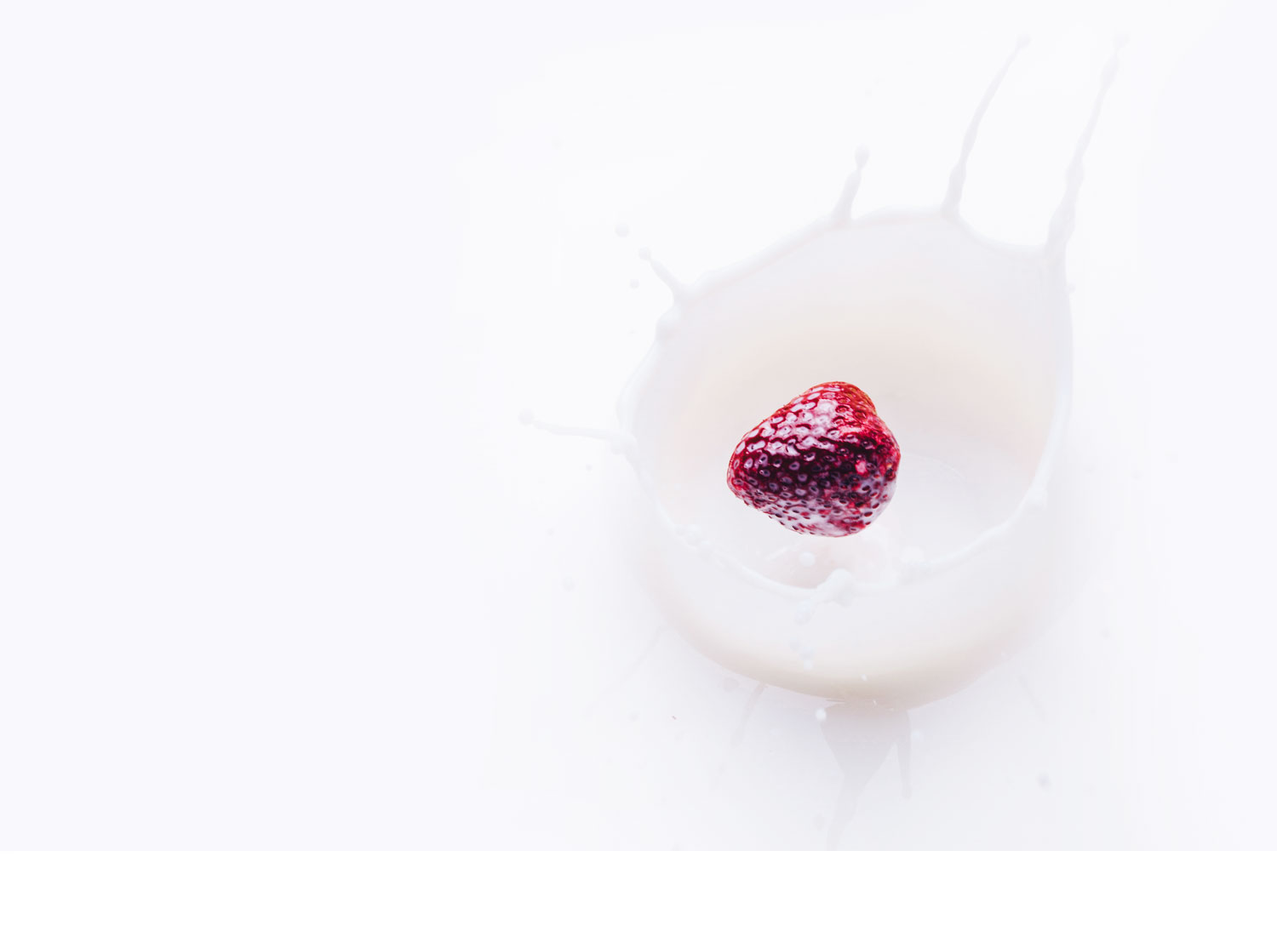
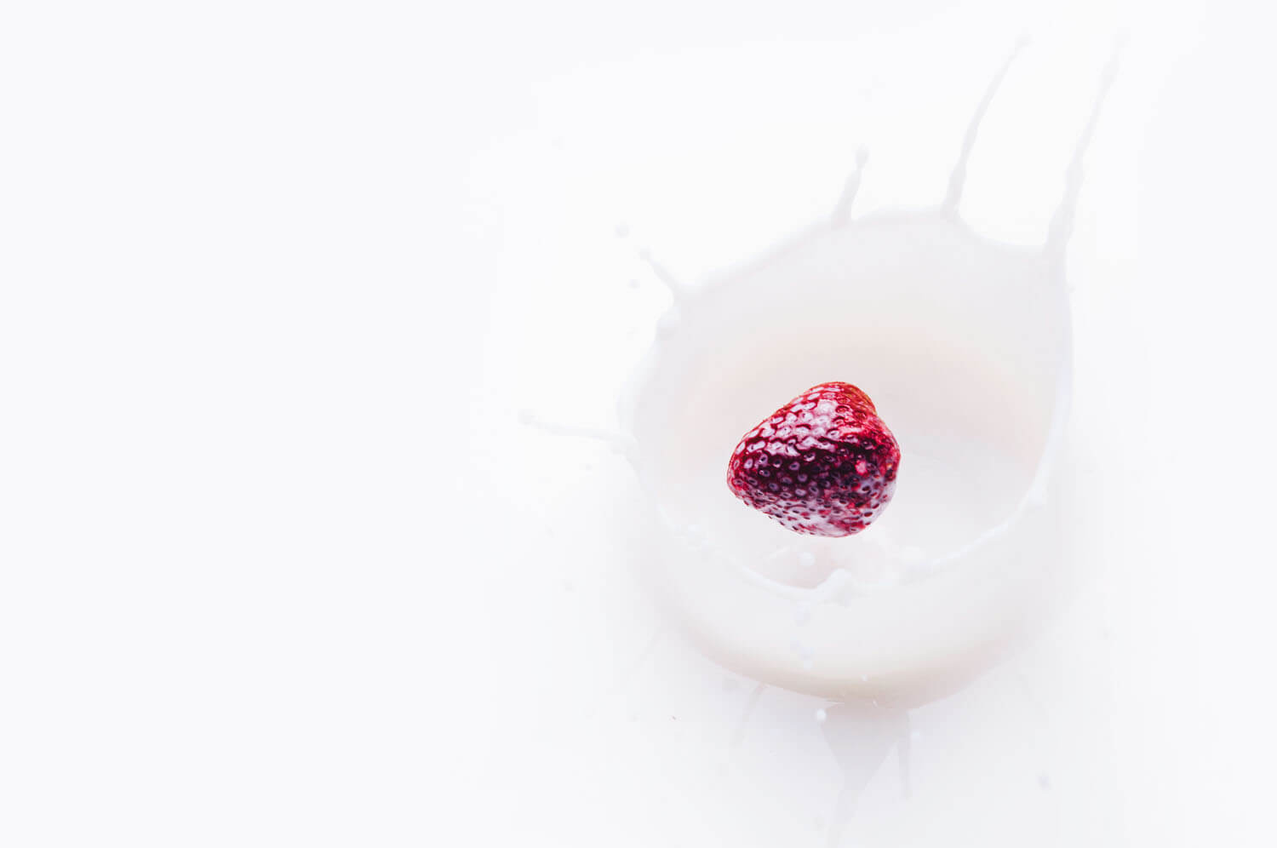
changed

Changed region(s): [[0.552, 0.4046, 0.7053, 0.6536], [0.5827, 0.7159, 0.7667, 0.8715], [0.644, 0.9026, 0.6747, 0.9337]]

diff --git a/hw_bem/app/css/style.css b/hw_bem/app/css/style.css
@@ -28,7 +28,9 @@ body {
 
 .first-screen {
 	width: 100%;
-	background: #fafafb url("../img/1.jpg") top center no-repeat;
+	max-width: 1200px;
+	margin: 0 auto;
+	background: url("../img/1.jpg") top center no-repeat;
 }
 .first-screen__header {
 	display: -webkit-box;
@@ -43,8 +45,8 @@ body {
 	margin-bottom: 255px;
 }
 .first-screen .main {
-	background: url("../img/scrol.jpg") no-repeat 50% 85%;
-	padding-bottom: 400px;
+	background: url("../img/scrol.jpg") no-repeat 43% 85%;
+	padding-bottom: 330px;
 }
 .first-screen__menu {
 	display: -webkit-box;
@@ -63,16 +65,17 @@ body {
 }
 .first-screen__link {
 	display: inline-block;
-	color: #76431f;
+	color: #262626;
 	line-height: 1;
 	text-decoration: none;
 	cursor: pointer;
+	font-weight: 900;
 }
 .first-screen__link:after {
 	background-color: #ff6033;
 	display: block;
 	content: "";
-	height: 3px;
+	height: 4px;
 	width: 0;
 	-webkit-transition: width .3s ease-in-out;
 	-moz--transition: width .3s ease-in-out;
@@ -118,5 +121,38 @@ body {
 .about {
 	background-color: #00bcbc;
 }
+.about__content {
+	width: 100%;
+	max-width: 1200px;
+	display: -webkit-box;
+	display: -webkit-flex;
+	display: -ms-flexbox;
+	display:         flex;
+	-webkit-box-align: center;
+	-webkit-align-items: center;
+	-ms-flex-align: center;
+	        align-items: center;
+	padding-left: 100px;
+}
 
[1 lines of base64/hex data omitted]
+.about__content-left {
+	display: -webkit-box;
+	display: -webkit-flex;
+	display: -ms-flexbox;
+	display:         flex;
+}
+
+.about__content-right {
+	color: #fff;
+}
+.about__content-right__title {
+	font-size: 90px;
+	font-weight: 900;
+}
+.about__content-right__subtitle {
+	font-weight: 300;
+	font-size: 17px;
+	line-height: 27px;
+}
+
[1 lines of base64/hex data omitted]

diff --git a/hw_flex/app/w3c.html b/hw_flex/app/w3c.html
@@ -1,2 +1,2 @@
 <!DOCTYPE html>
-<html lang="en"><head><link href="icon.png" rel="icon"><link href="style.css" rel="stylesheet"><title>Showing results for contents of text-input area - Nu Html Checker</title><meta name="viewport" content="width=device-width, initial-scale=1"></head><body><div id="banner"><h1 id="title"><a href="."><span>Nu Html Checker</span></a></h1></div><p class="disclaimer">This tool is an ongoing experiment in better HTML checking, and its behavior remains subject to change</p><h2 id="top">Showing results for contents of text-input area</h2><form method="get"><fieldset><legend>Checker Input</legend><p class="checkboxes">Show <span class="checkboxgroup"><label title="Display the markup source of the input document." for="showsource"><input type="checkbox" name="showsource" id="showsource" value="yes">source</label><label title="Display an outline of the input document." for="showoutline"><input type="checkbox" name="showoutline" id="showoutline" value="yes">outline</label><label title="Display a report about the textual alternatives for images." for="showimagereport"><input type="checkbox" name="showimagereport" id="showimagereport" value="yes">image report</label></span><input id="show_options" type="button" value="Options…"><span class="extraoptions hidden"><span class="checkboxgroup"><label title="Check the content of all responses, including (non-200) error responses"><input type="checkbox" name="checkerrorpages" id="checkerrorpages" value="yes">check error pages</label></span><label id="user-agent-label" title="Specify the user-agent string to send in the document request">User-Agent <input name="useragent" list="useragents" value="Validator.nu/LV http://validator.w3.org/services"></label><datalist id="useragents"></datalist><label id="accept-language-label" title="Specify the accept-language header to send in the document request">Accept-Language <input id="acceptlanguage" name="acceptlanguage"></label></span></p><div id="inputregion"><label id="inputlabel" for="doc">Document URL:</label><input type="url" name="doc" id="doc" pattern="(?:(?:https?://.+)|(?:data:.+))?" title="Absolute URL (http, https or data only) of the document to be checked." tabindex="0" autofocus="autofocus"></div><p><input value="Check" type="submit" id="submit"></p></fieldset></form><script src="script.js"></script><script src="data:text/javascript,var%20_paq%3Dwindow._paq%7C%7C%5B%5D%3B_paq.push%28%5B%22trackPageView%22%5D%29%2C_paq.push%28%5B%22enableLinkTracking%22%5D%29%2Cfunction%28%29%7Bvar%20e%3D%22https%3A%2F%2Fwww.w3.org%2Fanalytics%2Fpiwik%2F%22%3B_paq.push%28%5B%22setTrackerUrl%22%2Ce%2B%22matomo.php%22%5D%29%2C_paq.push%28%5B%22setSiteId%22%2C%22444%22%5D%29%3Bvar%20a%3Ddocument%2Ct%3Da.createElement%28%22script%22%29%2Cp%3Da.getElementsByTagName%28%22script%22%29%5B0%5D%3Bt.type%3D%22text%2Fjavascript%22%2Ct.async%3D%210%2Ct.defer%3D%210%2Ct.src%3De%2B%22matomo.js%22%2Cp.parentNode.insertBefore%28t%2Cp%29%7D%28%29%3B"></script><div id="results"><ol><li class="error"><p><strong>Error</strong>: <span>Attribute <code>pic</code> not allowed on element <a href="https://html.spec.whatwg.org/multipage/#the-a-element"><code>a</code></a> at this point.</span></p><p class="location">From line <span class="first-line">15</span>, column <span class="first-col">6</span>; to line <span class="last-line">15</span>, column <span class="last-col">52</span></p><p class="extract"><code>em"&gt;<span class="lf" title="Line break">↩</span>					<b>&lt;a class="main__link large" href="#" pic="car"&gt;</b><span class="lf" title="Line break">↩</span>					</code></p><dl><dt>Attributes for element <a href="https://html.spec.whatwg.org/multipage/#the-a-element"><code>a</code></a>:</dt><dd><a href="https://html.spec.whatwg.org/multipage/#global-attributes">Global attributes</a></dd><dd><code><a href="https://html.spec.whatwg.org/multipage/#attr-hyperlink-href">href</a></code> — Address of the <a href="https://html.spec.whatwg.org/multipage/#hyperlink">hyperlink</a></dd><dd><code><a href="https://html.spec.whatwg.org/multipage/#attr-hyperlink-target">target</a></code> — <a href="https://html.spec.whatwg.org/multipage/#browsing-context">Browsing context</a> for <a href="https://html.spec.whatwg.org/multipage/#hyperlink">hyperlink</a> <a href="https://html.spec.whatwg.org/multipage/#navigate">navigation</a></dd><dd><code><a href="https://html.spec.whatwg.org/multipage/#attr-hyperlink-download">download</a></code> — Whether to download the resource instead of navigating to it, and its file name if so</dd><dd><code><a href="https://html.spec.whatwg.org/multipage/#ping">ping</a></code> — <a href="https://url.spec.whatwg.org/#concept-url">URLs</a> to ping</dd><dd><code><a href="https://html.spec.whatwg.org/multipage/#attr-hyperlink-rel">rel</a></code> — Relationship between the location in the document containing the <a href="https://html.spec.whatwg.org/multipage/#hyperlink">hyperlink</a> and the destination resource</dd><dd><code><a href="https://html.spec.whatwg.org/multipage/#attr-hyperlink-hreflang">hreflang</a></code> — Language of the linked resource</dd><dd><code><a href="https://html.spec.whatwg.org/multipage/#attr-hyperlink-type">type</a></code> — Hint for the type of the referenced resource</dd><dd><code><a href="https://html.spec.whatwg.org/multipage/#attr-hyperlink-referrerpolicy">referrerpolicy</a></code> — <a href="https://w3c.github.io/webappsec-referrer-policy/#referrer-policy">Referrer policy</a> for <a href="https://fetch.spec.whatwg.org/#concept-fetch">fetches</a> initiated by the element</dd></dl></li></ol><p class="failure">There were errors.</p><div class="details"><p class="msgschema">Used the schema for HTML + SVG 1.1 + MathML 3.0 + RDFa 1.1.</p><p class="msgmediatype">Used the HTML parser.</div><p class="stats">Total execution time 27 milliseconds.</p></div><hr><div id="about"><p><a href="about.html">About this checker</a> • <a href="about.html#issues">Report an issue</a> • <span class="version">Version: 19.9.29</span></p></div></body></html>
+<html lang="en"><head><link href="icon.png" rel="icon"><link href="style.css" rel="stylesheet"><title>Showing results for contents of text-input area - Nu Html Checker</title><meta name="viewport" content="width=device-width, initial-scale=1"></head><body><div id="banner"><h1 id="title"><a href="."><span>Nu Html Checker</span></a></h1></div><p class="disclaimer">This tool is an ongoing experiment in better HTML checking, and its behavior remains subject to change</p><h2 id="top">Showing results for contents of text-input area</h2><form method="get"><fieldset><legend>Checker Input</legend><p class="checkboxes">Show <span class="checkboxgroup"><label title="Display the markup source of the input document." for="showsource"><input type="checkbox" name="showsource" id="showsource" value="yes">source</label><label title="Display an outline of the input document." for="showoutline"><input type="checkbox" name="showoutline" id="showoutline" value="yes">outline</label><label title="Display a report about the textual alternatives for images." for="showimagereport"><input type="checkbox" name="showimagereport" id="showimagereport" value="yes">image report</label></span><input id="show_options" type="button" value="Options…"><span class="extraoptions hidden"><span class="checkboxgroup"><label title="Check the content of all responses, including (non-200) error responses"><input type="checkbox" name="checkerrorpages" id="checkerrorpages" value="yes">check error pages</label></span><label id="user-agent-label" title="Specify the user-agent string to send in the document request">User-Agent <input name="useragent" list="useragents" value="Validator.nu/LV http://validator.w3.org/services"></label><datalist id="useragents"></datalist><label id="accept-language-label" title="Specify the accept-language header to send in the document request">Accept-Language <input id="acceptlanguage" name="acceptlanguage"></label></span></p><div id="inputregion"><label id="inputlabel" for="doc">Document URL:</label><input type="url" name="doc" id="doc" pattern="(?:(?:https?://.+)|(?:data:.+))?" title="Absolute URL (http, https or data only) of the document to be checked." tabindex="0" autofocus="autofocus"></div><p><input value="Check" type="submit" id="submit"></p></fieldset></form><script src="script.js"></script><script src="data:text/javascript,var%20_paq%3Dwindow._paq%7C%7C%5B%5D%3B_paq.push%28%5B%22trackPageView%22%5D%29%2C_paq.push%28%5B%22enableLinkTracking%22%5D%29%2Cfunction%28%29%7Bvar%20e%3D%22https%3A%2F%2Fwww.w3.org%2Fanalytics%2Fpiwik%2F%22%3B_paq.push%28%5B%22setTrackerUrl%22%2Ce%2B%22matomo.php%22%5D%29%2C_paq.push%28%5B%22setSiteId%22%2C%22444%22%5D%29%3Bvar%20a%3Ddocument%2Ct%3Da.createElement%28%22script%22%29%2Cp%3Da.getElementsByTagName%28%22script%22%29%5B0%5D%3Bt.type%3D%22text%2Fjavascript%22%2Ct.async%3D%210%2Ct.defer%3D%210%2Ct.src%3De%2B%22matomo.js%22%2Cp.parentNode.insertBefore%28t%2Cp%29%7D%28%29%3B"></script><div id="results"><ol><li class="error"><p><strong>Error</strong>: <span>Attribute <code>pic</code> not allowed on element <a href="https://html.spec.whatwg.org/multipage/#the-a-element"><code>a</code></a> at this point.</span></p><p class="location">From line <span class="first-line">15</span>, column <span class="first-col">6</span>; to line <span class="last-line">15</span>, column <span class="last-col">52</span></p><p class="extract"><code>em"&gt;<span class="lf" title="Line break">↩</span>					<b>&lt;a class="main__link large" href="#" pic="car"&gt;</b><span class="lf" title="Line break">↩</span>					</code></p><dl><dt>Attributes for element <a href="https://html.spec.whatwg.org/multipage/#the-a-element"><code>a</code></a>:</dt><dd><a href="https://html.spec.whatwg.org/multipage/#global-attributes">Global attributes</a></dd><dd><code><a href="https://html.spec.whatwg.org/multipage/#attr-hyperlink-href">href</a></code> — Address of the <a href="https://html.spec.whatwg.org/multipage/#hyperlink">hyperlink</a></dd><dd><code><a href="https://html.spec.whatwg.org/multipage/#attr-hyperlink-target">target</a></code> — <a href="https://html.spec.whatwg.org/multipage/#browsing-context">Browsing context</a> for <a href="https://html.spec.whatwg.org/multipage/#hyperlink">hyperlink</a> <a href="https://html.spec.whatwg.org/multipage/#navigate">navigation</a></dd><dd><code><a href="https://html.spec.whatwg.org/multipage/#attr-hyperlink-download">download</a></code> — Whether to download the resource instead of navigating to it, and its file name if so</dd><dd><code><a href="https://html.spec.whatwg.org/multipage/#ping">ping</a></code> — <a href="https://url.spec.whatwg.org/#concept-url">URLs</a> to ping</dd><dd><code><a href="https://html.spec.whatwg.org/multipage/#attr-hyperlink-rel">rel</a></code> — Relationship between the location in the document containing the <a href="https://html.spec.whatwg.org/multipage/#hyperlink">hyperlink</a> and the destination resource</dd><dd><code><a href="https://html.spec.whatwg.org/multipage/#attr-hyperlink-hreflang">hreflang</a></code> — Language of the linked resource</dd><dd><code><a href="https://html.spec.whatwg.org/multipage/#attr-hyperlink-type">type</a></code> — Hint for the type of the referenced resource</dd><dd><code><a href="https://html.spec.whatwg.org/multipage/#attr-hyperlink-referrerpolicy">referrerpolicy</a></code> — <a href="https://w3c.github.io/webappsec-referrer-policy/#referrer-policy">Referrer policy</a> for <a href="https://fetch.spec.whatwg.org/#concept-fetch">fetches</a> initiated by the element</dd></dl></li></ol><p class="failure">There were errors.</p><div class="details"><p class="msgschema">Used the schema for HTML + SVG 1.1 + MathML 3.0 + RDFa 1.1.</p><p class="msgmediatype">Used the HTML parser.</div><p class="stats">Total execution time 7 milliseconds.</p></div><hr><div id="about"><p><a href="about.html">About this checker</a> • <a href="about.html#issues">Report an issue</a> • <span class="version">Version: 19.9.29</span></p></div></body></html>

diff --git a/hw_bem/app/w3c.html b/hw_bem/app/w3c.html
@@ -1,2 +1,2 @@
 <!DOCTYPE html>
-<html lang="en"><head><link href="icon.png" rel="icon"><link href="style.css" rel="stylesheet"><title>Showing results for contents of text-input area - Nu Html Checker</title><meta name="viewport" content="width=device-width, initial-scale=1"></head><body><div id="banner"><h1 id="title"><a href="."><span>Nu Html Checker</span></a></h1></div><p class="disclaimer">This tool is an ongoing experiment in better HTML checking, and its behavior remains subject to change</p><h2 id="top">Showing results for contents of text-input area</h2><form method="get"><fieldset><legend>Checker Input</legend><p class="checkboxes">Show <span class="checkboxgroup"><label title="Display the markup source of the input document." for="showsource"><input type="checkbox" name="showsource" id="showsource" value="yes">source</label><label title="Display an outline of the input document." for="showoutline"><input type="checkbox" name="showoutline" id="showoutline" value="yes">outline</label><label title="Display a report about the textual alternatives for images." for="showimagereport"><input type="checkbox" name="showimagereport" id="showimagereport" value="yes">image report</label></span><input id="show_options" type="button" value="Options…"><span class="extraoptions hidden"><span class="checkboxgroup"><label title="Check the content of all responses, including (non-200) error responses"><input type="checkbox" name="checkerrorpages" id="checkerrorpages" value="yes">check error pages</label></span><label id="user-agent-label" title="Specify the user-agent string to send in the document request">User-Agent <input name="useragent" list="useragents" value="Validator.nu/LV http://validator.w3.org/services"></label><datalist id="useragents"></datalist><label id="accept-language-label" title="Specify the accept-language header to send in the document request">Accept-Language <input id="acceptlanguage" name="acceptlanguage"></label></span></p><div id="inputregion"><label id="inputlabel" for="doc">Document URL:</label><input type="url" name="doc" id="doc" pattern="(?:(?:https?://.+)|(?:data:.+))?" title="Absolute URL (http, https or data only) of the document to be checked." tabindex="0" autofocus="autofocus"></div><p><input value="Check" type="submit" id="submit"></p></fieldset></form><script src="script.js"></script><script src="data:text/javascript,var%20_paq%3Dwindow._paq%7C%7C%5B%5D%3B_paq.push%28%5B%22trackPageView%22%5D%29%2C_paq.push%28%5B%22enableLinkTracking%22%5D%29%2Cfunction%28%29%7Bvar%20e%3D%22https%3A%2F%2Fwww.w3.org%2Fanalytics%2Fpiwik%2F%22%3B_paq.push%28%5B%22setTrackerUrl%22%2Ce%2B%22matomo.php%22%5D%29%2C_paq.push%28%5B%22setSiteId%22%2C%22444%22%5D%29%3Bvar%20a%3Ddocument%2Ct%3Da.createElement%28%22script%22%29%2Cp%3Da.getElementsByTagName%28%22script%22%29%5B0%5D%3Bt.type%3D%22text%2Fjavascript%22%2Ct.async%3D%210%2Ct.defer%3D%210%2Ct.src%3De%2B%22matomo.js%22%2Cp.parentNode.insertBefore%28t%2Cp%29%7D%28%29%3B"></script><div id="results"><ol><li class="error"><p><strong>Error</strong>: <span>End tag for  <code>body</code> seen, but there were unclosed elements.</span></p><p class="location">From line <span class="first-line">60</span>, column <span class="first-col">3</span>; to line <span class="last-line">60</span>, column <span class="last-col">9</span></p><p class="extract"><code>script&gt;<span class="lf" title="Line break">↩</span>		<b>&lt;/body&gt;</b><span class="lf" title="Line break">↩</span>		&lt;/h</code></p></li><li class="error"><p><strong>Error</strong>: <span>Unclosed element <code>div</code>.</span></p><p class="location">From line <span class="first-line">13</span>, column <span class="first-col">2</span>; to line <span class="last-line">13</span>, column <span class="last-col">27</span></p><p class="extract"><code>&gt;<span class="lf" title="Line break">↩</span>&lt;body&gt;<span class="lf" title="Line break">↩</span>	<b>&lt;div class="first-screen"&gt;</b><span class="lf" title="Line break">↩</span>		&lt;di</code></p></li></ol><p class="failure">There were errors.</p><div class="details"><p class="msgschema">Used the schema for HTML + SVG 1.1 + MathML 3.0 + RDFa 1.1.</p><p class="msgmediatype">Used the HTML parser.</div><p class="stats">Total execution time 9 milliseconds.</p></div><hr><div id="about"><p><a href="about.html">About this checker</a> • <a href="about.html#issues">Report an issue</a> • <span class="version">Version: 19.9.29</span></p></div></body></html>
+<html lang="en"><head><link href="icon.png" rel="icon"><link href="style.css" rel="stylesheet"><title>Showing results for contents of text-input area - Nu Html Checker</title><meta name="viewport" content="width=device-width, initial-scale=1"></head><body><div id="banner"><h1 id="title"><a href="."><span>Nu Html Checker</span></a></h1></div><p class="disclaimer">This tool is an ongoing experiment in better HTML checking, and its behavior remains subject to change</p><h2 id="top">Showing results for contents of text-input area</h2><form method="get"><fieldset><legend>Checker Input</legend><p class="checkboxes">Show <span class="checkboxgroup"><label title="Display the markup source of the input document." for="showsource"><input type="checkbox" name="showsource" id="showsource" value="yes">source</label><label title="Display an outline of the input document." for="showoutline"><input type="checkbox" name="showoutline" id="showoutline" value="yes">outline</label><label title="Display a report about the textual alternatives for images." for="showimagereport"><input type="checkbox" name="showimagereport" id="showimagereport" value="yes">image report</label></span><input id="show_options" type="button" value="Options…"><span class="extraoptions hidden"><span class="checkboxgroup"><label title="Check the content of all responses, including (non-200) error responses"><input type="checkbox" name="checkerrorpages" id="checkerrorpages" value="yes">check error pages</label></span><label id="user-agent-label" title="Specify the user-agent string to send in the document request">User-Agent <input name="useragent" list="useragents" value="Validator.nu/LV http://validator.w3.org/services"></label><datalist id="useragents"></datalist><label id="accept-language-label" title="Specify the accept-language header to send in the document request">Accept-Language <input id="acceptlanguage" name="acceptlanguage"></label></span></p><div id="inputregion"><label id="inputlabel" for="doc">Document URL:</label><input type="url" name="doc" id="doc" pattern="(?:(?:https?://.+)|(?:data:.+))?" title="Absolute URL (http, https or data only) of the document to be checked." tabindex="0" autofocus="autofocus"></div><p><input value="Check" type="submit" id="submit"></p></fieldset></form><script src="script.js"></script><script src="data:text/javascript,var%20_paq%3Dwindow._paq%7C%7C%5B%5D%3B_paq.push%28%5B%22trackPageView%22%5D%29%2C_paq.push%28%5B%22enableLinkTracking%22%5D%29%2Cfunction%28%29%7Bvar%20e%3D%22https%3A%2F%2Fwww.w3.org%2Fanalytics%2Fpiwik%2F%22%3B_paq.push%28%5B%22setTrackerUrl%22%2Ce%2B%22matomo.php%22%5D%29%2C_paq.push%28%5B%22setSiteId%22%2C%22444%22%5D%29%3Bvar%20a%3Ddocument%2Ct%3Da.createElement%28%22script%22%29%2Cp%3Da.getElementsByTagName%28%22script%22%29%5B0%5D%3Bt.type%3D%22text%2Fjavascript%22%2Ct.async%3D%210%2Ct.defer%3D%210%2Ct.src%3De%2B%22matomo.js%22%2Cp.parentNode.insertBefore%28t%2Cp%29%7D%28%29%3B"></script><div id="results"><ol><li class="error"><p><strong>Error</strong>: <span>End tag for  <code>body</code> seen, but there were unclosed elements.</span></p><p class="location">From line <span class="first-line">62</span>, column <span class="first-col">2</span>; to line <span class="last-line">62</span>, column <span class="last-col">8</span></p><p class="extract"><code>/script&gt;<span class="lf" title="Line break">↩</span>	<b>&lt;/body&gt;</b><span class="lf" title="Line break">↩</span>	&lt;/ht</code></p></li><li class="error"><p><strong>Error</strong>: <span>Unclosed element <code>div</code>.</span></p><p class="location">From line <span class="first-line">13</span>, column <span class="first-col">2</span>; to line <span class="last-line">13</span>, column <span class="last-col">27</span></p><p class="extract"><code>&gt;<span class="lf" title="Line break">↩</span>&lt;body&gt;<span class="lf" title="Line break">↩</span>	<b>&lt;div class="first-screen"&gt;</b><span class="lf" title="Line break">↩</span>		&lt;di</code></p></li></ol><p class="failure">There were errors.</p><div class="details"><p class="msgschema">Used the schema for HTML + SVG 1.1 + MathML 3.0 + RDFa 1.1.</p><p class="msgmediatype">Used the HTML parser.</div><p class="stats">Total execution time 9 milliseconds.</p></div><hr><div id="about"><p><a href="about.html">About this checker</a> • <a href="about.html#issues">Report an issue</a> • <span class="version">Version: 19.9.29</span></p></div></body></html>

diff --git a/4_blog/app/w3c.html b/4_blog/app/w3c.html
@@ -1,2 +1,2 @@
 <!DOCTYPE html>
-<html lang="en"><head><link href="icon.png" rel="icon"><link href="style.css" rel="stylesheet"><title>Showing results for contents of text-input area - Nu Html Checker</title><meta name="viewport" content="width=device-width, initial-scale=1"></head><body><div id="banner"><h1 id="title"><a href="."><span>Nu Html Checker</span></a></h1></div><p class="disclaimer">This tool is an ongoing experiment in better HTML checking, and its behavior remains subject to change</p><h2 id="top">Showing results for contents of text-input area</h2><form method="get"><fieldset><legend>Checker Input</legend><p class="checkboxes">Show <span class="checkboxgroup"><label title="Display the markup source of the input document." for="showsource"><input type="checkbox" name="showsource" id="showsource" value="yes">source</label><label title="Display an outline of the input document." for="showoutline"><input type="checkbox" name="showoutline" id="showoutline" value="yes">outline</label><label title="Display a report about the textual alternatives for images." for="showimagereport"><input type="checkbox" name="showimagereport" id="showimagereport" value="yes">image report</label></span><input id="show_options" type="button" value="Options…"><span class="extraoptions hidden"><span class="checkboxgroup"><label title="Check the content of all responses, including (non-200) error responses"><input type="checkbox" name="checkerrorpages" id="checkerrorpages" value="yes">check error pages</label></span><label id="user-agent-label" title="Specify the user-agent string to send in the document request">User-Agent <input name="useragent" list="useragents" value="Validator.nu/LV http://validator.w3.org/services"></label><datalist id="useragents"></datalist><label id="accept-language-label" title="Specify the accept-language header to send in the document request">Accept-Language <input id="acceptlanguage" name="acceptlanguage"></label></span></p><div id="inputregion"><label id="inputlabel" for="doc">Document URL:</label><input type="url" name="doc" id="doc" pattern="(?:(?:https?://.+)|(?:data:.+))?" title="Absolute URL (http, https or data only) of the document to be checked." tabindex="0" autofocus="autofocus"></div><p><input value="Check" type="submit" id="submit"></p></fieldset></form><script src="script.js"></script><script src="data:text/javascript,var%20_paq%3Dwindow._paq%7C%7C%5B%5D%3B_paq.push%28%5B%22trackPageView%22%5D%29%2C_paq.push%28%5B%22enableLinkTracking%22%5D%29%2Cfunction%28%29%7Bvar%20e%3D%22https%3A%2F%2Fwww.w3.org%2Fanalytics%2Fpiwik%2F%22%3B_paq.push%28%5B%22setTrackerUrl%22%2Ce%2B%22matomo.php%22%5D%29%2C_paq.push%28%5B%22setSiteId%22%2C%22444%22%5D%29%3Bvar%20a%3Ddocument%2Ct%3Da.createElement%28%22script%22%29%2Cp%3Da.getElementsByTagName%28%22script%22%29%5B0%5D%3Bt.type%3D%22text%2Fjavascript%22%2Ct.async%3D%210%2Ct.defer%3D%210%2Ct.src%3De%2B%22matomo.js%22%2Cp.parentNode.insertBefore%28t%2Cp%29%7D%28%29%3B"></script><div id="results"><p class="success">The document validates according to the specified schema(s).</p><div class="details"><p class="msgschema">Used the schema for HTML + SVG 1.1 + MathML 3.0 + RDFa 1.1.</p><p class="msgmediatype">Used the HTML parser.</div><p class="stats">Total execution time 6 milliseconds.</p></div><hr><div id="about"><p><a href="about.html">About this checker</a> • <a href="about.html#issues">Report an issue</a> • <span class="version">Version: 19.9.29</span></p></div></body></html>
+<html lang="en"><head><link href="icon.png" rel="icon"><link href="style.css" rel="stylesheet"><title>Showing results for contents of text-input area - Nu Html Checker</title><meta name="viewport" content="width=device-width, initial-scale=1"></head><body><div id="banner"><h1 id="title"><a href="."><span>Nu Html Checker</span></a></h1></div><p class="disclaimer">This tool is an ongoing experiment in better HTML checking, and its behavior remains subject to change</p><h2 id="top">Showing results for contents of text-input area</h2><form method="get"><fieldset><legend>Checker Input</legend><p class="checkboxes">Show <span class="checkboxgroup"><label title="Display the markup source of the input document." for="showsource"><input type="checkbox" name="showsource" id="showsource" value="yes">source</label><label title="Display an outline of the input document." for="showoutline"><input type="checkbox" name="showoutline" id="showoutline" value="yes">outline</label><label title="Display a report about the textual alternatives for images." for="showimagereport"><input type="checkbox" name="showimagereport" id="showimagereport" value="yes">image report</label></span><input id="show_options" type="button" value="Options…"><span class="extraoptions hidden"><span class="checkboxgroup"><label title="Check the content of all responses, including (non-200) error responses"><input type="checkbox" name="checkerrorpages" id="checkerrorpages" value="yes">check error pages</label></span><label id="user-agent-label" title="Specify the user-agent string to send in the document request">User-Agent <input name="useragent" list="useragents" value="Validator.nu/LV http://validator.w3.org/services"></label><datalist id="useragents"></datalist><label id="accept-language-label" title="Specify the accept-language header to send in the document request">Accept-Language <input id="acceptlanguage" name="acceptlanguage"></label></span></p><div id="inputregion"><label id="inputlabel" for="doc">Document URL:</label><input type="url" name="doc" id="doc" pattern="(?:(?:https?://.+)|(?:data:.+))?" title="Absolute URL (http, https or data only) of the document to be checked." tabindex="0" autofocus="autofocus"></div><p><input value="Check" type="submit" id="submit"></p></fieldset></form><script src="script.js"></script><script src="data:text/javascript,var%20_paq%3Dwindow._paq%7C%7C%5B%5D%3B_paq.push%28%5B%22trackPageView%22%5D%29%2C_paq.push%28%5B%22enableLinkTracking%22%5D%29%2Cfunction%28%29%7Bvar%20e%3D%22https%3A%2F%2Fwww.w3.org%2Fanalytics%2Fpiwik%2F%22%3B_paq.push%28%5B%22setTrackerUrl%22%2Ce%2B%22matomo.php%22%5D%29%2C_paq.push%28%5B%22setSiteId%22%2C%22444%22%5D%29%3Bvar%20a%3Ddocument%2Ct%3Da.createElement%28%22script%22%29%2Cp%3Da.getElementsByTagName%28%22script%22%29%5B0%5D%3Bt.type%3D%22text%2Fjavascript%22%2Ct.async%3D%210%2Ct.defer%3D%210%2Ct.src%3De%2B%22matomo.js%22%2Cp.parentNode.insertBefore%28t%2Cp%29%7D%28%29%3B"></script><div id="results"><p class="success">The document validates according to the specified schema(s).</p><div class="details"><p class="msgschema">Used the schema for HTML + SVG 1.1 + MathML 3.0 + RDFa 1.1.</p><p class="msgmediatype">Used the HTML parser.</div><p class="stats">Total execution time 4 milliseconds.</p></div><hr><div id="about"><p><a href="about.html">About this checker</a> • <a href="about.html#issues">Report an issue</a> • <span class="version">Version: 19.9.29</span></p></div></body></html>

diff --git a/hw_bem/app/index.html b/hw_bem/app/index.html
@@ -3,7 +3,7 @@
 <head>
 	<meta charset="UTF-8">
 	<meta name="viewport" content="initial-scale=1.0, width=device-width">
-	<title>Bem</title>
+	<title>Cahee</title>
 	<link rel="stylesheet" type="text/css" href="assets/libs/reset.css">
 	<link rel="stylesheet" type="text/css" href="assets/libs/normalize.css">
 	<link rel="shortcut icon" type="image/x-icon" href="assets/fav/favicon.png">
@@ -43,19 +43,21 @@
 				<input class="button" type="submit" value="get free now">
 			</div>
 		</div>
-
+		
 		<div class="about">
 			<div class="container">
 				<div class="about__content">
-					<img class="about__img" src="img/raspberry.png" alt="raspberry">
-				</div>
-
-					<h1 class="about__title">About Us</h1>
-					<p class="about__subtitle">Abore Cahee magna aliqua. Ut enim ad minim veniam, quis nostrud exercitation ullamco laboris nisi ut aliquip ex ea commodo consequat. Duis aute irure dolor in reprehenderit in voluptate velit esse cillum.
-					Nim id est laborum. Sed ut perspiciatis unde omnis iste natus error sit voluptatem accusantium doloremque laudantium, totam rem aperiam, eaque ipsa quae ab illo inventore.</p>
+					<div class="about__content-left">
+						<img class="about__img" src="img/raspberry.png" alt="raspberry">
+					</div>
+					<div class="about__content-right">
+						<h1 class="about__title">About Us</h1>
+						<p class="about__subtitle">Abore Cahee magna aliqua. Ut enim ad minim veniam, quis nostrud exercitation ullamco laboris nisi ut aliquip ex ea commodo consequat. Duis aute irure dolor in reprehenderit in voluptate velit esse cillum.
+						Nim id est laborum. Sed ut perspiciatis unde omnis iste natus error sit voluptatem accusantium doloremque laudantium, totam rem aperiam, eaque ipsa quae ab illo inventore.</p>
+					</div>
 				</div>
 			</div>
-
-			<script src="js/bundle.js"></script>
-		</body>
-		</html>
+		</div>
+		<script src="js/bundle.js"></script>
+	</body>
+	</html>

diff --git a/hw_bem/src/index.html b/hw_bem/src/index.html
@@ -3,7 +3,7 @@
 <head>
 	<meta charset="UTF-8">
 	<meta name="viewport" content="initial-scale=1.0, width=device-width">
-	<title>Bem</title>
+	<title>Cahee</title>
 	<link rel="stylesheet" type="text/css" href="assets/libs/reset.css">
 	<link rel="stylesheet" type="text/css" href="assets/libs/normalize.css">
 	<link rel="shortcut icon" type="image/x-icon" href="assets/fav/favicon.png">
@@ -43,19 +43,21 @@
 				<input class="button" type="submit" value="get free now">
 			</div>
 		</div>
-
+		
 		<div class="about">
 			<div class="container">
 				<div class="about__content">
-					<img class="about__img" src="img/raspberry.png" alt="raspberry">
-				</div>
-
-					<h1 class="about__title">About Us</h1>
-					<p class="about__subtitle">Abore Cahee magna aliqua. Ut enim ad minim veniam, quis nostrud exercitation ullamco laboris nisi ut aliquip ex ea commodo consequat. Duis aute irure dolor in reprehenderit in voluptate velit esse cillum.
-					Nim id est laborum. Sed ut perspiciatis unde omnis iste natus error sit voluptatem accusantium doloremque laudantium, totam rem aperiam, eaque ipsa quae ab illo inventore.</p>
+					<div class="about__content-left">
+						<img class="about__img" src="img/raspberry.png" alt="raspberry">
+					</div>
+					<div class="about__content-right">
+						<h1 class="about__title">About Us</h1>
+						<p class="about__subtitle">Abore Cahee magna aliqua. Ut enim ad minim veniam, quis nostrud exercitation ullamco laboris nisi ut aliquip ex ea commodo consequat. Duis aute irure dolor in reprehenderit in voluptate velit esse cillum.
+						Nim id est laborum. Sed ut perspiciatis unde omnis iste natus error sit voluptatem accusantium doloremque laudantium, totam rem aperiam, eaque ipsa quae ab illo inventore.</p>
+					</div>
 				</div>
 			</div>
-
-			<script src="js/bundle.js"></script>
-		</body>
-		</html>
+		</div>
+		<script src="js/bundle.js"></script>
+	</body>
+	</html>

diff --git a/hw_bem/src/scss/_first-screen.scss b/hw_bem/src/scss/_first-screen.scss
@@ -2,7 +2,9 @@
 
 .first-screen {
 	width: 100%;
-	background:$bg url("../img/1.jpg") top center no-repeat;
+	max-width: 1200px;
+	margin:0 auto;
+	background: url("../img/1.jpg") top center no-repeat;
 
 
 	&__header {
@@ -13,8 +15,8 @@
 	}
 
 	.main {
-		background: url("../img/scrol.jpg") no-repeat 50% 85%;
-		padding-bottom: 400px;
+		background: url("../img/scrol.jpg") no-repeat 43% 85%;
+		padding-bottom: 330px;
 	}
 
 	&__menu {
@@ -31,17 +33,18 @@
 
 	&__link {
 		display: inline-block;
-		color: #76431f;
+		color: $menu;
 		line-height: 1;
 		text-decoration: none;
 		cursor: pointer;
+		font-weight: 900;
 	}
 
 	&__link:after {
 		background-color: $line-menu;
 		display: block;
 		content: "";
-		height: 3px;
+		height: 4px;
 		width: 0%;
 		-webkit-transition: width .3s ease-in-out;
 		-moz--transition: width .3s ease-in-out;
@@ -54,42 +57,6 @@
 	}
 
 }
-
-	// &__link {
-	// 	text-decoration: none;
-	// 	color: $menu;
-	// 	font-weight: 700;
-	// 	font-size: 16px;
-
-	// 	&:hover {
-	// 		color:$line-menu;
-	// 		text-decoration:overline;
-	// 		height: 3px;
-	// 	}
-
-
-
-// .link-hover-solid a {
-//     display: inline-block;
-//     color: #76431f;
-//     line-height: 1;
-//     text-decoration: none;
-//     cursor: pointer;
-// }
-// .link-hover-solid a:after {
-//     background-color: #ff6000;
-//     display: block;
-//     content: "";
-//     height: 3px;
-//     width: 0%;
-//     -webkit-transition: width .3s ease-in-out;
-//     -moz--transition: width .3s ease-in-out;
-//     transition: width .3s ease-in-out;
-// }
-// .link-hover-solid a:hover:after,
-// .link-hover-solid a:focus:after {
-//     width: 100%;
-// }
 
 .title {
 	font-weight:900;

diff --git a/hw_bem/src/scss/_about.scss b/hw_bem/src/scss/_about.scss
@@ -1,5 +1,36 @@
 
 .about {
 	background-color: $bg-about;
+	
+
+
+
+	&__content {
+		width: 100%;
+		max-width: 1200px;
+		display: flex;
+		align-items: center;
+		padding-left: 100px;
+	}
 }
 
+
+.about__content-left {
+	display: flex;
+}
+
+.about__content-right {
+	color: $letter-color;
+
+
+	&__title {
+		font-size: 90px;
+		font-weight: 900;
+	}
+
+	&__subtitle {
+		font-weight: 300;
+		font-size: 17px;
+		line-height: 27px;
+	}
+}

diff --git a/hw_bem/src/scss/_vars.scss b/hw_bem/src/scss/_vars.scss
@@ -2,7 +2,7 @@
 $laghtblue:#00b2b2;
 $menu:#262626;
 $line-menu:#ff6033;
-$bg:#fafafb;
+$bg:#f8f7fa;
 $title-font:#262626;
 $letter-color:#fff;
 $bg-about:#00bcbc;
